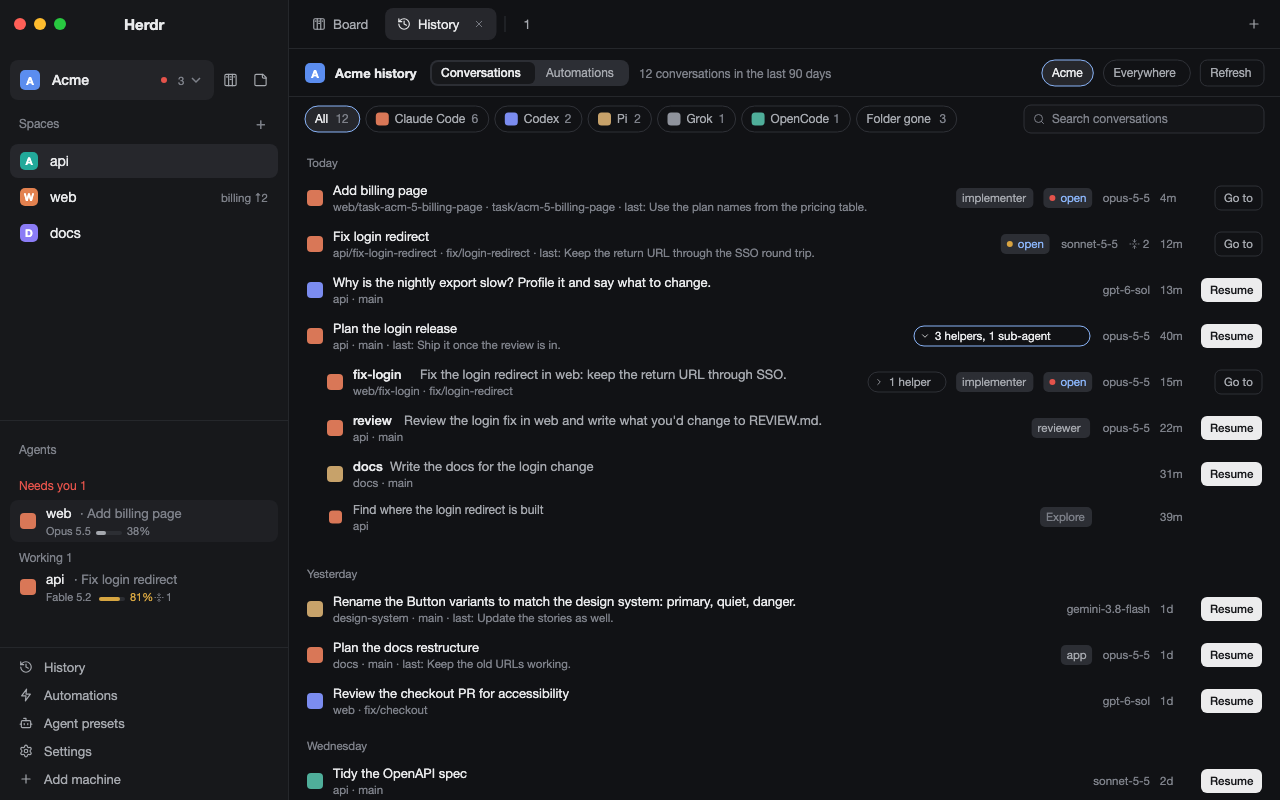
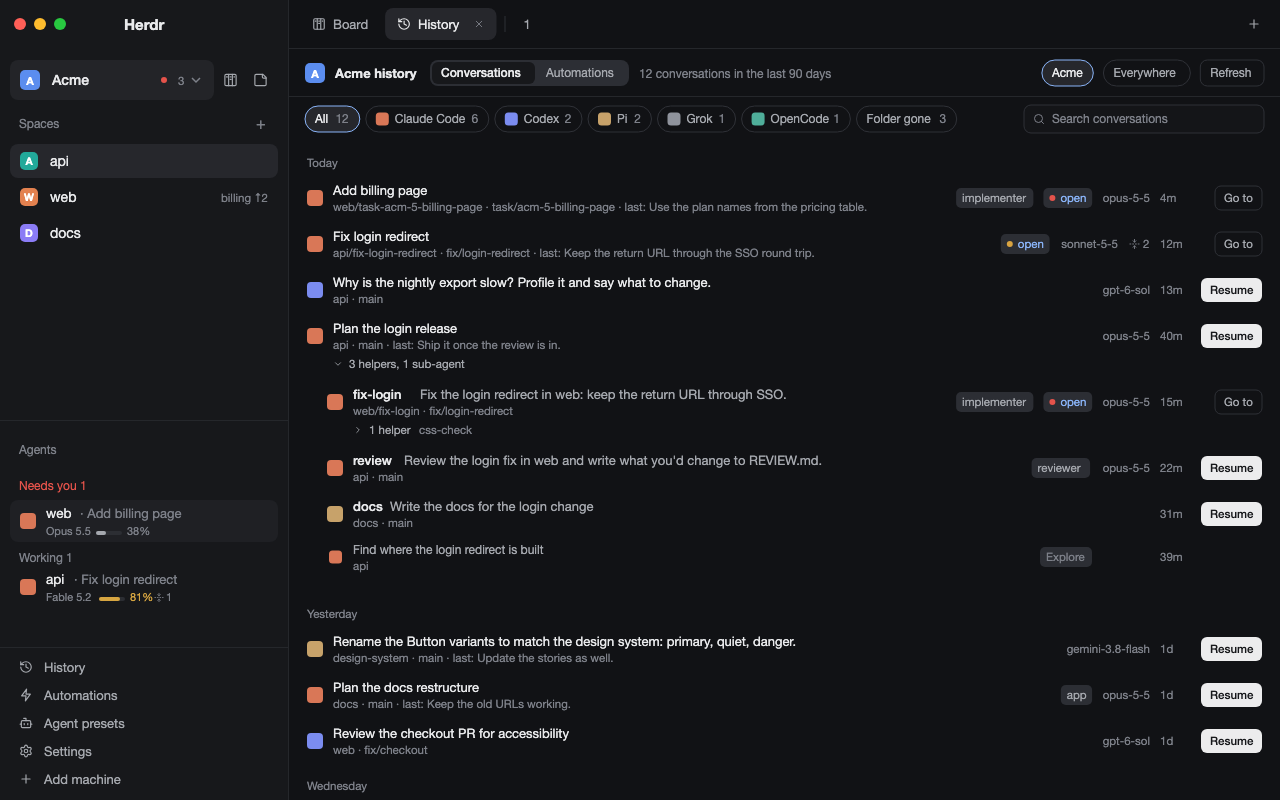
feat: History unfolds helpers from a quiet line under the row; details sit inside it

diff --git a/mods/ws-history/main.js b/mods/ws-history/main.js
@@ -32,8 +32,8 @@
 // context was before and after, and what's in the context at the end.
 //
 // Who started whom (treefacts.js): a conversation another agent started (an hc helper)
-// or an agent's own sub-agent isn't listed on its own: its parent's row has a chip
-// ("8 helpers", "3 sub-agents") that unfolds them under it, indented, and so on down. A
+// or an agent's own sub-agent isn't listed on its own: under its parent's row a quiet line
+// ("› 8 helpers  fix-login, review") unfolds them, indented, and so on down. A
 // search shows a match under its parent. One whose parent isn't listed stays on its own
 // with a "started by …" line. Trees are sorted by their newest activity. Fold state is
 // kept in memory only.
@@ -53,7 +53,7 @@ import {
   home, appHome, exec, notify, checking, knownAgents, readTextFile,
 } from "herdr";
 import { PROVIDERS, inWorkspace, whereOf, liveOf, keyOf, titleOf, matches, dayLabel, ago, span, modelLabel, resumeArgv, presetOf, tokens, compactionText, compactionsTip, runState, runMatches, runSessions } from "./histfacts.js";
-import { forest, treeRows, chipText, indent, historyMenu, wipeCheck, holdState, liveUnder, helpersOf } from "./treefacts.js";
+import { forest, treeRows, chipText, kidNames, indent, historyMenu, wipeCheck, holdState, liveUnder, helpersOf } from "./treefacts.js";
 import { menuHeight, wipeTargets } from "./menufacts.js";
 
 const PALETTE = ["ansi6", "ansi3", "ansi4", "ansi5", "ansi2", "ansi1"];
@@ -558,8 +558,8 @@ export default class History extends View {
         if (under.length && this.unfolded.has(keyOf(s))) {
           for (const x of treeRows({ ...f, roots: [s] }, { unfolded: this.unfolded }).slice(1)) {
             const at = x.s.readonly ? null : live.get(keyOf(x.s)) ?? null;
-            kids.push(this.row(x.s, at, at ? status.get(at) : null, t, now, everywhere ? null : def, tight, x));
-            if (this.open === keyOf(x.s)) kids.push(this.details(x.s, at, t, x.depth));
+            kids.push(this.item(this.row(x.s, at, at ? status.get(at) : null, t, now, everywhere ? null : def, tight, x), t,
+              this.open === keyOf(x.s) ? this.details(x.s, at, t, x.depth) : null));
           }
         }
       }
@@ -598,8 +598,8 @@ export default class History extends View {
         const label = dayLabel(f.latest.get(keyOf(s)) ?? s.updated, now);
         if (label !== day) { day = label; kids.push(div().h(30).mt(4).px(8).flex().flex_none().items_end().pb(5).text_size(11.5).text_color(t.dim).child(label)); }
       }
-      kids.push(this.row(s, at, at ? status.get(at) : null, t, now, everywhere ? null : def, tight, x));
-      if (this.open === keyOf(s)) kids.push(this.details(s, at, t, x.depth));
+      kids.push(this.item(this.row(s, at, at ? status.get(at) : null, t, now, everywhere ? null : def, tight, x), t,
+        this.open === keyOf(s) ? this.details(s, at, t, x.depth) : null));
     }
     if (roots > this.max) {
       kids.push(h_flex().h(40).flex_none().items_center().justify_center()
@@ -637,31 +637,27 @@ export default class History extends View {
     const sub = [this.startedBy(s), whereOf(s.cwd, def, home(), trees()), s.branch, s.last ? `last: ${s.last}` : s.title ? s.first : ""].filter(Boolean).join("  ·  ");
     const tag = (text, c, tip) => div().flex_none().h(20).px(6).flex().items_center().rounded(5).bg(t.raised).text_size(11.5).text_color(c)
       .when(Boolean(tip), (el) => el.tooltip(tip)).child(text);
-    // Its helpers and sub-agents: a chip that folds them in and out.
-    const fold = x.kids.length > 0 ? h_flex().id(`hk-${key}`).flex_none().h(20).px(6).gap(4).items_center().rounded(10).border_1().cursor_pointer().text_size(11.5)
-      .border_color(x.open ? t.accent : t.input).text_color(x.open ? t.foreground : t.muted).hover((el) => el.text_color(t.foreground))
-      .tooltip(x.open ? "Fold them away" : "Show the conversations it started")
-      .on_mouse_down("left", (_e, cx) => cx.stop_propagation())
-      .on_click((_e, cx) => { cx.stop_propagation(); if (this.unfolded.has(key)) this.unfolded.delete(key); else this.unfolded.add(key); cx.notify(); })
-      .child(svg(`mods/workspace-chrome/chevron-${x.open ? "down" : "right"}.svg`).size(10).flex_none())
-      .child(chipText(x.kids)) : null;
     const name = s.helper?.name || "";
     const act = (id, text, action, tip, solid) => div().id(id).h(24).px(9).flex().flex_none().items_center().rounded(6)
       .text_size(11.5).cursor_pointer().tooltip(tip).on_mouse_down("left", (_e, cx) => cx.stop_propagation())
       .when(solid, (el) => el.bg(t.solid).text_color(t.solid_foreground).font_medium().hover((x) => x.opacity(0.88)))
       .when(!solid, (el) => el.border_1().border_color(t.input).text_color(t.muted).hover((x) => x.bg(t.hover).text_color(t.foreground)))
       .on_click((_e, cx) => { cx.stop_propagation(); action(cx); }).child(text);
-    return h_flex().id(`h-${key}`).h(s.readonly ? 40 : 46).pl(8 + indent(x.depth)).pr(8).gap(10).items_center().flex_none().rounded(7).cursor_pointer()
-      .hover((el) => el.bg(t.hover)).when(this.open === key, (el) => el.bg(t.selected))
+    // A row with helpers or sub-agents holds the line that folds them in and out, under its
+    // own line, in one highlight.
+    const folds = x.kids.length > 0;
+    const shell = (folds ? v_flex().pt(4).pb(6) : h_flex().h(s.readonly ? 40 : 46).gap(10).items_center())
+      .id(`h-${key}`).pl(8 + indent(x.depth)).pr(8).flex_none().rounded(7).cursor_pointer()
+      .when(this.open !== key, (el) => el.hover((el) => el.bg(t.hover)))
       .on_click((_e, cx) => { this.open = this.open === key ? null : key; cx.notify(); })
-      .when(!s.readonly, (el) => el.on_mouse_down("right", (_e, cx) => { cx.stop_propagation(); this.openMenu(s, at); }))
+      .when(!s.readonly, (el) => el.on_mouse_down("right", (_e, cx) => { cx.stop_propagation(); this.openMenu(s, at); }));
+    const fill = (el) => el
       .child(this.icon(s.provider, t, s.readonly ? 13 : 16))
       .child(v_flex().flex_1().min_w(0).gap(2)
         .child(h_flex().min_w(0).gap(7).items_center()
           .when(Boolean(name), (el) => el.child(div().flex_none().max_w(180).truncate().font_medium().text_color(s.gone && !at ? t.muted : t.foreground).child(name)))
           .child(div().flex_1().min_w(0).truncate().text_size(s.readonly ? 12 : 13).text_color(s.gone && !at ? t.muted : name || s.readonly ? t.muted : t.foreground).child(titleOf(s))))
         .child(div().truncate().text_size(11.5).text_color(t.dim).child(sub)))
-      .when(Boolean(fold), (el) => el.child(fold))
       .when(Boolean(preset) && !tight, (el) => el.child(tag(preset, t.muted, "Started from this agent preset; Resume starts it the same way")))
       .when(Boolean(s.readonly) && !tight, (el) => el.child(tag(s.sub?.type || "sub-agent", t.dim, "The agent's own sub-agent: read here, it can't be resumed on its own")))
       .when(s.via === "app" && !tight, (el) => el.child(tag("app", t.muted, "Started in the agent's desktop app or an editor, not in a terminal. Resume continues it here.")))
@@ -678,6 +674,31 @@ export default class History extends View {
         .when(Boolean(at), (el) => el.child(act(`go-${key}`, "Go to", () => this.goTo(at), "Show the terminal it's open in")))
         .when(!at && !s.gone && this.starting === key, (el) => el.child(div().text_size(11.5).text_color(t.dim).child("Starting…")))
         .when(!at && !s.gone && !s.readonly && this.starting !== key, (el) => el.child(act(`re-${key}`, "Resume", (cx) => this.resume(s, cx), "Continue it in a new tab, in the folder it ran in", true))));
+    if (!folds) return fill(shell);
+    return shell.child(fill(h_flex().h(s.readonly ? 32 : 38).gap(10).items_center()))
+      .child(this.foldLine(`hf-${key}`, key, x.kids, x.open, s.readonly ? 23 : 26, t, "Show the conversations it started"));
+  }
+
+  // A row as the list draws it: opened, the row and its details are one piece, the row's
+  // highlight holding both.
+  item(row, t, details) {
+    if (!details) return row;
+    return v_flex().flex_none().rounded(7).bg(t.selected).mb(6).child(row).child(details);
+  }
+
+  // The quiet line inside a row with helpers or sub-agents, under its own line, from its
+  // title's edge (`left`): "› 4 helpers  tree-check, review", which unfolds them; unfolded,
+  // the count alone. (A negative margin to pull it up made the row lose its height.)
+  foldLine(id, key, kids, open, left, t, tip) {
+    const names = open ? "" : kidNames(kids);
+    return h_flex().id(id).h(18).ml(left).gap(6).items_center().flex_none().cursor_pointer()
+      .text_size(11.5).text_color(t.muted).hover((el) => el.text_color(t.foreground))
+      .tooltip(open ? "Fold them away" : tip)
+      .on_mouse_down("left", (_e, cx) => cx.stop_propagation())
+      .on_click((_e, cx) => { cx.stop_propagation(); if (this.unfolded.has(key)) this.unfolded.delete(key); else this.unfolded.add(key); cx.notify(); })
+      .child(svg(`mods/workspace-chrome/chevron-${open ? "down" : "right"}.svg`).size(10).flex_none())
+      .child(div().flex_none().child(chipText(kids)))
+      .when(Boolean(names), (el) => el.child(div().flex_1().min_w(0).truncate().text_color(t.dim).child(names)));
   }
 
   // "started by …" for a row whose parent isn't listed: its title when the reader knew it,
@@ -704,20 +725,15 @@ export default class History extends View {
       .when(!solid, (el) => el.border_1().border_color(t.input).text_color(t.muted).hover((x) => x.bg(t.hover).text_color(t.foreground)))
       .on_click((_e, cx) => { cx.stop_propagation(); action(cx); }).child(text);
     const key = s ? keyOf(s) : null;
-    return h_flex().id(`run-${r.id}`).h(st.quiet ? 38 : 46).px(8).gap(10).items_center().flex_none().rounded(7).hover((x) => x.bg(t.hover))
+    // With helpers, the line that folds them sits under its own, in its highlight.
+    const folds = under.length > 0 && Boolean(key);
+    const shell = (folds ? v_flex().pt(4).pb(6) : h_flex().h(st.quiet ? 38 : 46).gap(10).items_center())
+      .id(`run-${r.id}`).px(8).flex_none().rounded(7).hover((x) => x.bg(t.hover));
+    const fill = (el) => el
       .child(svg("mods/ws-automations/automations.svg").size(st.quiet ? 13 : 15).flex_none().text_color(st.quiet ? t.dim : t.muted))
       .child(v_flex().flex_1().min_w(0).gap(2)
         .child(div().truncate().text_color(st.quiet ? t.muted : t.foreground).text_size(st.quiet ? 12 : 13).child(r.name))
         .child(div().truncate().text_size(11.5).text_color(t.dim).child(sub)))
-      .when(under.length > 0 && Boolean(key), (el) => {
-        const open = this.unfolded.has(key);
-        return el.child(h_flex().id(`rk-${r.id}`).flex_none().h(20).px(6).gap(4).items_center().rounded(10).border_1().cursor_pointer().text_size(11.5)
-          .border_color(open ? t.accent : t.input).text_color(open ? t.foreground : t.muted).hover((x) => x.text_color(t.foreground))
-          .tooltip(open ? "Fold them away" : "Show the conversations its run started")
-          .on_click((_e, cx) => { cx.stop_propagation(); if (open) this.unfolded.delete(key); else this.unfolded.add(key); cx.notify(); })
-          .child(svg(`mods/workspace-chrome/chevron-${open ? "down" : "right"}.svg`).size(10).flex_none())
-          .child(chipText(under)));
-      })
       .child(div().flex_none().text_size(11.5).text_color(t[st.tone] ?? t.dim).child(st.word))
       .child(div().w(30).flex_none().text_size(11.5).text_color(t.dim).child(ago(r.at, now)))
       .child(h_flex().w(tight ? 70 : 150).flex_none().gap(6).justify_end()
@@ -727,10 +743,13 @@ export default class History extends View {
         .when(!st.open && !at && Boolean(s) && !s.gone && this.starting !== key, (el) => el.child(act(`rre-${r.id}`, "Resume", (cx) => this.resume(s, cx),
           r.conv ? "Continue its conversation in a new tab, in the folder it ran in" : "Continue the conversation that ran in its folder then, in a new tab", true)))
         .when(!tight, (el) => el.child(act(`rau-${r.id}`, "Automation", () => this.openAutomation(r), `Open ${r.name} in Automations`))));
+    if (!folds) return fill(shell);
+    return shell.child(fill(h_flex().h(38).gap(10).items_center()))
+      .child(this.foldLine(`rf-${r.id}`, key, under, this.unfolded.has(key), 25, t, "Show the conversations its run started"));
   }
 
-  // Under an opened row: what was asked first and last, where and when, and the
-  // command Resume runs.
+  // Under an opened row, inside its highlight (item()): what was asked first and last,
+  // where and when, and the command Resume runs.
   details(s, at, t, depth = 0) {
     const a = this.agent(s.provider);
     const argv = resumeArgv(s, a?.run) ?? [];
@@ -740,7 +759,7 @@ export default class History extends View {
       .child(div().flex_1().min_w(0).text_color(t.muted).child(text));
     const started = s.helper ? [s.helper.name && `as ${s.helper.name}`, s.helper.preset && `(${s.helper.preset})`].filter(Boolean).join(" ") : "";
     const parent = s.parent ? this.rows.find((x) => keyOf(x) === s.parent) : null;
-    return v_flex().ml(34 + indent(depth)).mr(8).mb(8).p(12).gap(7).rounded(8).border_1().border_color(t.border).bg(t.surface).text_size(12)
+    return v_flex().pl((s.readonly ? 31 : 34) + indent(depth)).pr(8).pt(2).pb(12).gap(7).text_size(12)
       .when(Boolean(s.parent), (el) => el.child(line(s.readonly ? "Sub-agent of" : "Started by", `${parent ? `“${titleOf(parent)}”` : this.startedBy(s).replace(/^started by /, "")}${started ? `  ${started}` : ""}`)))
       .when(Boolean(s.first), (el) => el.child(line("First asked", s.first)))
       .when(Boolean(s.last), (el) => el.child(line("Last asked", s.last)))

diff --git a/mods/ws-history/treefacts.js b/mods/ws-history/treefacts.js
@@ -384,6 +384,18 @@ export function chipText(kids = []) {
   return [helpers && n(helpers, "helper"), subs && n(subs, "sub-agent")].filter(Boolean).join(", ");
 }
 
+// The names on the line under a row with helpers ("tree-check, review, Explore ×2"): each
+// helper's hc name and each sub-agent's type, in order, a repeat counted on its first.
+// A helper with no hc name isn't named.
+export function kidNames(kids = []) {
+  const n = new Map();
+  for (const s of kids) {
+    const w = s.helper?.name || (s.readonly ? s.sub?.type || "sub-agent" : "");
+    if (w) n.set(w, (n.get(w) ?? 0) + 1);
+  }
+  return [...n].map(([w, k]) => (k > 1 ? `${w} ×${k}` : w)).join(", ");
+}
+
 // The rows to draw, in order: { s, depth, kids, open, forced }. `pass(s)`: a row the
 // search and filters let through; `root(s)`: whether a tree may show at all (the folder-
 // gone rule); `unfolded`: keys opened by hand. With a filter on (`filtering`), a tree shows

diff --git a/RECIPE.md b/RECIPE.md
@@ -171,9 +171,9 @@ Left to right, as in Herdr's `main` layout, with one row added to the sidebar:
 - **The History screen** (`ws-history`), the workspace's screen behind the "History" pill (a clock inside a counter-clockwise arrow, `mods/ws-history/history.svg`), lists the conversations the agents saved, in theme `canvas`, 13px:
   - **Header** (48px, bottom border): the workspace's 20px mark, "<name> history" (semibold), a two-way switch "Conversations | Automations" (26px, `raised`, 8px radius; the side that's on is `background`, `foreground` and medium, the other `muted`), "N conversations in the last 90 days" (12px, `dim`; "Reading…" before the first read; "in the last year", then nothing, after Look further back), a spinner while it reads again, then on the right two chips, "<name>" and "Everywhere" (26px tall, 13px radius; the one that's on has an `accent` border and `selected` fill), and a bordered Refresh button.
   - **Filters** (44px): a chip "All N" and one per agent that has conversations, each with the agent's icon, name and count (Claude Code, Codex, Pi, Grok, OpenCode, in that order), then "Folder gone N" when some are hidden. The chips scroll sideways when they don't fit. On the right a 240px search box ("Search conversations"; 150px in a narrow pane).
-  - **The list**, scrolling, grouped by the day each conversation was last used: a 30px `dim` heading ("Today", "Yesterday", the weekday for the last week, then "13 Nov", with the year when it isn't this one), then a 46px row per conversation (7px radius, `hover` under the pointer, `selected` while its details are open). A row holds the agent's 16px icon; two lines, the title (its own, else the first thing asked; `muted` when its folder is gone) over an 11.5px `dim` line with the folder (from the workspace's root; under Everywhere from `~`), the branch, and "last: <the last thing asked>" (or, under a title, the first thing asked); tags (20px, `raised`): the preset it was started from, "app" (started in a desktop app or an editor), "open" in `accent` with the agent's status dot, "folder gone" in `dim`; the model's short name (`dim`); for a conversation that was compacted, the compacted icon (`mods/ws-history/compacted.svg`, the Agents list's, 11px) and how often (`dim`), whose tooltip says "Compacted 3 times, last automatically, 375k → 45k"; how long ago (`dim`: "now", "5m", "3h", "2d", "4mo"); and one button: a solid "Resume", a bordered "Go to" when it's open, none when its folder is gone, "Starting…" while a resume is under way.
-  - **Details** under an opened row (a `surface` card, 12px, indented 34px): First asked, Last asked, Folder (from `~`, with the branch), When ("20 Nov 11:02 to 14:33"), Context ("98k tokens at the end"), Compacted (a line per compaction, newest first, at most five: "21 Nov 08:38  ·  by /compact  ·  210k → 31k", then "7 times in all" when there were more), Open in (the terminal's address), or "Resume runs" with the exact command.
-  - **Who started whom**: a conversation another agent started (an hc helper) or an agent's own sub-agent has no row of its own at the top. Its parent's row has a chip after the title ("8 helpers", "3 sub-agents", "2 helpers, 1 sub-agent"; 20px, 10px radius, bordered `input`, a 10px chevron; `accent` border while open) that unfolds them right under it, each indented 20px more (at most 80px), and so on down. A helper's row starts with its hc name (medium weight) before its title or first prompt (`muted`), and its preset is its tag; a sub-agent's row is 40px with a 13px icon, its description as the title and its type ("Explore", else "sub-agent") as a `dim` tag, and no button. A row whose parent isn't listed starts its second line with "started by “<the parent's title>”", "started by a wiped conversation" or "started by <the parent's id, 8 characters>". Opened, a child's details start with "Started by" (or "Sub-agent of") and the parent's title, the hc name and the preset. A run in the Automations list whose conversation started some has the same chip, unfolding them under the run.
+  - **The list**, scrolling, grouped by the day each conversation was last used: a 30px `dim` heading ("Today", "Yesterday", the weekday for the last week, then "13 Nov", with the year when it isn't this one), then a 46px row per conversation (7px radius, `hover` under the pointer). A row holds the agent's 16px icon; two lines, the title (its own, else the first thing asked; `muted` when its folder is gone) over an 11.5px `dim` line with the folder (from the workspace's root; under Everywhere from `~`), the branch, and "last: <the last thing asked>" (or, under a title, the first thing asked); tags (20px, `raised`): the preset it was started from, "app" (started in a desktop app or an editor), "open" in `accent` with the agent's status dot, "folder gone" in `dim`; the model's short name (`dim`); for a conversation that was compacted, the compacted icon (`mods/ws-history/compacted.svg`, the Agents list's, 11px) and how often (`dim`), whose tooltip says "Compacted 3 times, last automatically, 375k → 45k"; how long ago (`dim`: "now", "5m", "3h", "2d", "4mo"); and one button: a solid "Resume", a bordered "Go to" when it's open, none when its folder is gone, "Starting…" while a resume is under way.
+  - **Details** under an opened row, inside the row's own highlight (`selected`, 7px radius, holding the row, its helpers line and the details as one piece; no card or border of their own; 12px, starting at the title's edge, 34px in): First asked, Last asked, Folder (from `~`, with the branch), When ("20 Nov 11:02 to 14:33"), Context ("98k tokens at the end"), Compacted (a line per compaction, newest first, at most five: "21 Nov 08:38  ·  by /compact  ·  210k → 31k", then "7 times in all" when there were more), Open in (the terminal's address), or "Resume runs" with the exact command.
+  - **Who started whom**: a conversation another agent started (an hc helper) or an agent's own sub-agent has no row of its own at the top. Its parent's row has a third line, under its grey line and starting at the title's edge: an 18px 11.5px line with a 10px chevron, the count in `muted` ("8 helpers", "3 sub-agents", "2 helpers, 1 sub-agent") and, folded, the helpers' hc names and the sub-agents' types in `dim` ("fix-login, review, Explore ×2"); clicking it unfolds them right under the row (the line then shows the count alone), and the row's hover covers it. Such a row has 4px above its own two lines (38px) and 6px under the third. Each child is indented 20px more than its parent (at most 80px), and so on down. A helper's row starts with its hc name (medium weight) before its title or first prompt (`muted`), and its preset is its tag; a sub-agent's row is 40px with a 13px icon, its description as the title and its type ("Explore", else "sub-agent") as a `dim` tag, and no button. A row whose parent isn't listed starts its second line with "started by “<the parent's title>”", "started by a wiped conversation" or "started by <the parent's id, 8 characters>". Opened, a child's details start with "Started by" (or "Sub-agent of") and the parent's title, the hc name and the preset. A run in the Automations list whose conversation started some has the same line, unfolding them under the run.
   - **The right-click menu** on a row (not a sub-agent's) is the Agents list's popup (220px, `popover`, the row's title at the top in 11px `dim`, 31px rows): Resume (the History icon) or Go to (the terminal icon, its address at the right), Copy session id (`copy.svg`), and after a line Wipe session… (`trash.svg`, in `blocked`; "experimental" at the right for Antigravity). Wipe session… opens a 480×214 dialog (272 with helpers): "Wipe “<title>”?", "Moves this conversation to the Trash (its transcript and what Claude keeps beside it), so History won't list it and it can't be resumed." with "It's open in t7: Wipe closes that first." when it is; for a conversation with helpers "It started 3 helpers (fix-login, review, docs). Wipe leaves them in History, on their own; Wipe all 4 takes them too."; "Looking at what has it open…" until that's known, then why it can't be wiped now in `blocked`, or why Wipe all can't (`muted`); Cancel, "Wipe all N" (red words on the plain button) and a `blocked` Wipe. An Antigravity conversation's Wipe is the Agents list's dialog, without "Closes it".
   - 120 rows are drawn; "Show N more" adds 120. At the end of what was read, "Look further back" reads a year, then everything kept.
   - As a dialog (980×700, when no workspace is chosen) it's the same on theme `popover`, without the two scope chips. Narrower than 720px (a pane beside the terminals), rows drop the tags other than "open", the model and the compactions.
@@ -737,7 +737,7 @@ Left to right, as in Herdr's `main` layout, with one row added to the sidebar:
 - **The Automations list** reads shared `workspaces.automation.runs` (nothing else), `spaces()` for which tabs are open and `terminals()` for each run's terminal (its `herdr.tab` label must be the run's tab) and status. `mode` is `"conversations"` or `"automations"`; each has its own search box (`query`, `runQuery`). Resume is the conversations' `resume()`; Go to is `pane.focus` on the terminal, else `space.select` and `tab.select`; Automation runs the command `ws-switcher.automation/<workspace>/<name>` (`mod.open ws-automations` for a name a command can't carry).
 - **The mod** runs the reader with `exec("node", …)`. When Node isn't on the app's PATH (an app started from the Dock gets a bare one) it asks the person's shell where it is, `$SHELL -lc 'command -v node'` and then `-lic` (nvm's installer sets Node up in `.zshrc`), takes only the path from the answer and runs that; the path is remembered until it stops working. It takes icons, names and run commands from `knownAgents()` (asked again with each read), and reads `panes()` and `terminals()` for what's open. Resume runs `herdr-app do tab.new {space, name, folder, argv}` or `space.new {folder, tab, argv}` through `exec`, which says which terminal it made; that goes into shared `workspaces.history.resumed` (conversation -> terminal, dropped when the terminal ends). Go to is `pane.focus {terminal}`, or `terminal.peek`.
 - **The launcher's notes**: `herdr-ws-resume --hook` appends `<session id>`, a tab and the launcher's words to `~/.herdr/resume/started` on every SessionStart (one-line commands only; cut to the last 2,000 lines past 4,000), and `scan.js` puts a session's last one on its row as `words`. `resumeArgv` uses them only when they parse as plain words starting with `herdr-ws-agent`. `~/.herdr/resume/<core>/<terminal>.session` says which terminal holds which Claude session or Antigravity conversation now.
-- **Who started whom**: `treefacts.js` (no imports, so `node` can test it): `shellCommands()` and `hcRuns()` read `hc run` out of a shell command (quotes, `$(…)`, redirections, here-documents; `--no-parent` is nobody's helper), `hcRunCalls()`, `ledgerOf()`, `link(rows, ledger, same)` (sets `parent` and `helper: { name, preset }`), `askedFirst()`, `forest()` (roots, children, each tree's newest activity; a loop is broken), `chipText()`, `treeRows()` (the rows to draw for the folds, the filters and the folder-gone rule), `indent()`, `subRow()`, `codexParentOf()`, `historyMenu()`, `wipeCheck()`, `helpersOf()`. `scan.js` reads Claude's sub-agents from `<session>/subagents/agent-<id>.jsonl` (stat only) and the `.meta.json` beside it (`agentType`, `description`), Antigravity's rows with a `parent_conversation_id` (their transcripts not read), OpenCode's with a `parent_id` and Codex threads whose `source` is a `thread_spawn`, as `readonly` rows with `sub: { type }`; reads `~/.herdr/resume/parents`; links the rows (folders compared by real path), adds the descendants of what's listed, and puts `parentTitle` on a child whose parent it read but doesn't list. Claude rows get `file` (the transcript, for Wipe) and `firstEnd`, Pi's and Antigravity's `firstEnd` too, Antigravity's `file`; the JSON gets `core`. `cached()` hands out copies, since `link()` writes on the rows.
+- **Who started whom**: `treefacts.js` (no imports, so `node` can test it): `shellCommands()` and `hcRuns()` read `hc run` out of a shell command (quotes, `$(…)`, redirections, here-documents; `--no-parent` is nobody's helper), `hcRunCalls()`, `ledgerOf()`, `link(rows, ledger, same)` (sets `parent` and `helper: { name, preset }`), `askedFirst()`, `forest()` (roots, children, each tree's newest activity; a loop is broken), `chipText()` and `kidNames()` (the helpers line's count and names), `treeRows()` (the rows to draw for the folds, the filters and the folder-gone rule), `indent()`, `subRow()`, `codexParentOf()`, `historyMenu()`, `wipeCheck()`, `helpersOf()`. `scan.js` reads Claude's sub-agents from `<session>/subagents/agent-<id>.jsonl` (stat only) and the `.meta.json` beside it (`agentType`, `description`), Antigravity's rows with a `parent_conversation_id` (their transcripts not read), OpenCode's with a `parent_id` and Codex threads whose `source` is a `thread_spawn`, as `readonly` rows with `sub: { type }`; reads `~/.herdr/resume/parents`; links the rows (folders compared by real path), adds the descendants of what's listed, and puts `parentTitle` on a child whose parent it read but doesn't list. Claude rows get `file` (the transcript, for Wipe) and `firstEnd`, Pi's and Antigravity's `firstEnd` too, Antigravity's `file`; the JSON gets `core`. `cached()` hands out copies, since `link()` writes on the rows.
 - **The ledger**: `herdr-ws-agent` runs `herdr-ws-resume --parent <agent> <folder> <preset>` in the background just before it starts the agent (any agent, in an hc terminal, whether restart resume is on or off). Not for a conversation it continues (`--resume`, `--continue`, Antigravity's `--conversation`, Pi's `--session`, `codex resume`, …). That asks `hc ls --json` (3 seconds at most; any failure writes nothing), reads this terminal's `name` and `parent` from its entry (with its labels emptied first), writes `~/.herdr/resume/<core>/<terminal>.parent` (parent terminal, hc name, preset) when there's a parent, and drops the `.parent` notes of terminals that are gone. It also writes the parent's `agent` from hc's entry into `.parent`. For an agent with the hook (`hooked`), it writes a `session` line only when the session was noted already (the hook came first). For Claude without it and Pi, it waits up to 30 seconds for the agent's own record (`$PPID` is the agent, as the launcher execs it right after: `~/.claude/sessions/<pid>.json`, or Pi's stats note with that `pid`) and writes a `session` line; a `start` line when that doesn't show, and for Codex, Grok and OpenCode at once. The hook skips Claude's `source: resume` and an Antigravity sub-agent's conversation (`agyroot`). The hook (`--hook`, on Claude's SessionStart and Antigravity's PreInvocation, when it notes a new session) appends a `session` line when the terminal has a `.parent` note. The parent session (`holds()`) goes by the parent's agent as hc reports it: the `.session` note for Claude and Antigravity (through `agyroot()` for Antigravity, so a sub-agent's id becomes its conversation's), else the stats note's `session_id` for Claude, and for Pi only while the pid in it lives; any other agent, `-`. In `link()`, a parent id that's a sub-agent's row climbs to its conversation, and one that isn't among the rows is `?/<id>`. Lines are tab-separated; the file is cut to its last 2,000 lines past 4,000, like `started` (each through a temporary file of its own process).
 - **The menu and Wipe**: a row's `on_mouse_down("right")` calls `openMenu()`, which opens a popup copy of the mod (`props.histMenu`: the row, the terminal it's open in, its helpers, the core) sized by `menuHeight()`; `init()` hands overlay copies to `initOverlay()`, `render()` draws `menuView()` or `wipeDialog()` (`props.wipe`). Resume and Go to go back to the History the menu came from through shared `workspaces.history.act` (`{ from, key, action, terminal, at }`; each History has its own `from`, and looks every 400ms as the screen, 500ms otherwise); Copy runs `pbcopy` (else `wl-copy`, `xclip`) in the popup. `checkWipe()` reads now, for each live Claude or Pi terminal, its foreground pid (`hc get`, 3 seconds at most), Claude's `~/.claude/sessions/<pid>.json`, the launcher's `.session` note and the stats note (else History's own resumes); every running Claude by `~/.claude/sessions/*.json` whose pid lives with the same start time (`TZ=UTC ps -o lstart`, as Claude writes `procStart`); each transcript's time with its sub-agents' (`stat`, against the shell's `date`); the folders' real paths (`pwd -P`); and the live helpers under a terminal it would close (`terminals()`' `parent`, `liveUnder()`); then `holdState()` and `wipeCheck()`; `doWipe()` checks again, `terminal.kill`s and waits for each terminal to close (and closes its pane), moves the files with the same `TRASH` script as `ws-agents`, posts the toast and sets shared `workspaces.history.wiped` (`{ keys, at }`), which makes every History read again and gives "started by a wiped conversation". `menufacts.js` is a copy of `ws-agents`' (`wipeTargets()`, `menuHeight()`), checked by the sync script. Antigravity's Wipe opens `ws-agents`' dialog with `props.wipe` and no address (its `doWipeAgy()` then skips `hc get`, and the text drops "Closes it").
 - **Wiped Antigravity conversations**: `scan.js` leaves out the ids in `~/.herdr/cache/agy-wiped.json` and their sub-agents' (`tree`): a wipe still waiting for every Antigravity to close, or done and looked at once more a minute later.
@@ -1416,7 +1416,7 @@ Left to right, as in Herdr's `main` layout, with one row added to the sidebar:
 - The sidebar footer's History row shows "<workspace> history" in place of the tabs and pins a History pill in every space of the workspace; with All spaces it opens a dialog. `herdr-app do ws-switcher.history` does the same, and run again goes back to the tabs.
 - Resume on a Claude row opens a tab in the space of that folder (a new space when none sits there) running `herdr-ws-agent claude --resume <id>` there, and the screen gives way to the terminals. Back in History the row says "open" with Go to, which shows that terminal.
 - `node --test` on a file that imports `mods/ws-history/treefacts.js` and `mods/ws-agents/menufacts.js` passes for `hcRuns` (a call with `2>&1 | tail`, a here-document, `--no-parent`, a template, `$(cat …)`), `hcRunCalls`, `link` (the ledger first, then the transcript's calls, then start lines), `forest`, `treeRows` (folded, unfolded, a search that finds a grandchild), `historyMenu` and `wipeCheck`; against a real orchestrator's transcript, every `hc run` it made is matched to its helper's conversation.
-- A Claude conversation that ran `hc run --bg --keep --name fix-login herdr-ws-agent --preset implementer "<task>"` shows "1 helper"; the chip unfolds "fix-login" with the "implementer" tag under it; a helper of that helper unfolds under it; a search for words of the grandchild's title shows all three; a Claude sub-agent shows under its parent with its type and no button; a helper whose parent is older than the window shows "started by <id>".
+- A Claude conversation that ran `hc run --bg --keep --name fix-login herdr-ws-agent --preset implementer "<task>"` shows "› 1 helper  fix-login" on a line under its row; clicking that line unfolds "fix-login" with the "implementer" tag under it, and opening any row puts its details inside the row's highlight; a helper of that helper unfolds under it; a search for words of the grandchild's title shows all three; a Claude sub-agent shows under its parent with its type and no button; a helper whose parent is older than the window shows "started by <id>".
 - Started under an hc parent, a Pi (or any agent without the hook) gets a `start` line in `~/.herdr/resume/parents` with the parent's session and the helper's name and preset; a Claude with restart resume on gets only a `session` line once it opens its session; a resumed one (`--resume`) gets none; with `hc` failing or hanging, the agent starts at once and nothing is written. An orchestrator's helper and a conversation of yours started minutes later in the same folder: only the helper folds under the orchestrator.
 - Right-click → Wipe on a conversation open in a Claude terminal whose `.session` note alone (or only History's resume) names it says "close it in t7 first" and nothing is closed; with both notes agreeing it closes that terminal first, but not while helpers started from it still run (it names them); Wipe all on its parent names the running ones it ends besides those it wipes. A conversation from the desktop app used in the last half hour is refused.
 - Right-click → Wipe session… on a closed Claude conversation not written for two minutes moves its files to the Trash, says so in a toast, and its row is gone; with a Claude running in its folder that isn't noted as holding it, or written a moment ago, the dialog says why and nothing moves; open in a noted terminal, Wipe closes that terminal first. On a parent, Wipe all N takes its helpers too; plain Wipe leaves them at the top. With the Antigravity experiment on, an Antigravity conversation open nowhere opens the Agents list's Wipe dialog.

diff --git a/CHANGELOG.md b/CHANGELOG.md
@@ -9,10 +9,11 @@ version you have (`mods/ws-switcher/VERSION` in your copy). To update, see
 
 ### New
 - **Settings > Agents and Settings > Experimental.** The package's switches for agents now live in one place, **Settings > Agents** (in place of Extras, after Privacy), and are gone from the foot of Agent presets and Automations: **Starting agents** (Herdr guide for every agent with Edit / Write one, Bring agents back after a restart), **In the + menu** (one switch per installed agent, opened by the + menu's "Choose agents…") and **While Herdr is closed** (Keep running). Experimental features get their own **Settings > Experimental** section right after it, without the "Open the file" button or file path line (only a broken `~/.herdr/settings.jsonc` is named). `ws-switcher.settings/agents` and `ws-switcher.settings/experimental` open them (`ws-switcher.settings/extras` still opens Agents for existing key bindings). To update, copy `mods/ws-settings` (before or with `mods/ws-switcher`), `mods/ws-switcher`, `mods/ws-presets`, `mods/ws-automations`, `mods/ws-new-menu`, `mods/ws-agents` and `mods/ws-chrome`; you may delete the now-unused `mods/ws-presets/hidefacts.js`.
-- **History shows who started whom.** A helper an agent started with `hc run … herdr-ws-agent --preset …` no longer sits in History as if you'd started it: it folds under the conversation that started it, behind a chip like "8 helpers" that unfolds them (with each helper's hc name and preset), and their own helpers under them. Agents' own sub-agents (Claude's Agent tool, Antigravity's, OpenCode's, Codex's) show there too, read-only. A search finds a helper under its parent; one whose parent isn't listed says "started by …"; trees sort by their newest activity, so a session whose helper is still working stays near the top. The Automations side does the same under a run. Past helpers are found from the `hc run` calls in Claude transcripts (History reads every transcript of the last 90 days once more, in full, on its first read); from now on the launcher notes each helper's parent in `~/.herdr/resume/parents`, for any agent. To update, copy `mods/ws-history` and `mods/ws-switcher` (the launcher and `herdr-ws-resume` are in its `bin/`).
+- **History shows who started whom.** A helper an agent started with `hc run … herdr-ws-agent --preset …` no longer sits in History as if you'd started it: it folds under the conversation that started it, behind a quiet line under its row ("› 8 helpers  fix-login, review, …") that unfolds them (each with its hc name and preset), and their own helpers under them. Agents' own sub-agents (Claude's Agent tool, Antigravity's, OpenCode's, Codex's) show there too, read-only. A search finds a helper under its parent; one whose parent isn't listed says "started by …"; trees sort by their newest activity, so a session whose helper is still working stays near the top. The Automations side does the same under a run. Past helpers are found from the `hc run` calls in Claude transcripts (History reads every transcript of the last 90 days once more, in full, on its first read); from now on the launcher notes each helper's parent in `~/.herdr/resume/parents`, for any agent. To update, copy `mods/ws-history` and `mods/ws-switcher` (the launcher and `herdr-ws-resume` are in its `bin/`).
 - **Wipe from History.** Right-click a History row: Resume (or Go to), Copy session id, Wipe session…. Wipe moves a Claude Code or Pi conversation to the Trash as the Agents list's Wipe does, for conversations that aren't open too. One open in a Herdr terminal is closed first, but only when the agent running there says it holds it (Claude's `~/.claude/sessions/<pid>.json`, Pi's own note with its pid); it refuses, saying why, whenever an agent may still be writing it: a running Claude anywhere that has it open, a Claude or Pi in its folder that isn't known to hold another conversation, a transcript (or one of its sub-agents') written in the last two minutes, a conversation from the desktop app or an editor used in the last 30 minutes, or helpers still running under it (closing it would end them). For a conversation with helpers it names them and offers "Wipe all N". An Antigravity conversation goes to the Agents list's own Wipe dialog, while that experiment is on. To update, copy `mods/ws-history` and `mods/ws-agents`.
 
 ### Fixed
+- **History's details sit inside their row.** An opened row's details were a second bordered box that started at the title and hung under the row; now the row's highlight grows to hold them, with the labels at the title's edge and the row's own right edge. To update, copy `mods/ws-history`.
 - **The reviewer preset reports back.** It ran in Claude's plan mode, so every review ended at the "Would you like to proceed?" question: it couldn't write the report file it was asked for or run `hc send`, and the agent that started it waited until someone read its screen. It now runs in auto mode with the Edit tools removed (like `scout`), writes only its report (the file the task names, else one under `/tmp`) and reports once. To update, copy `examples/presets/reviewer.md` over `~/.config/herdr-core/templates/reviewer.md` (or change its `command:` line to `herdr-ws-agent claude --disallowedTools Edit NotebookEdit --permission-mode auto`).
 
 ## [0.17.1] - 2026-11-21
